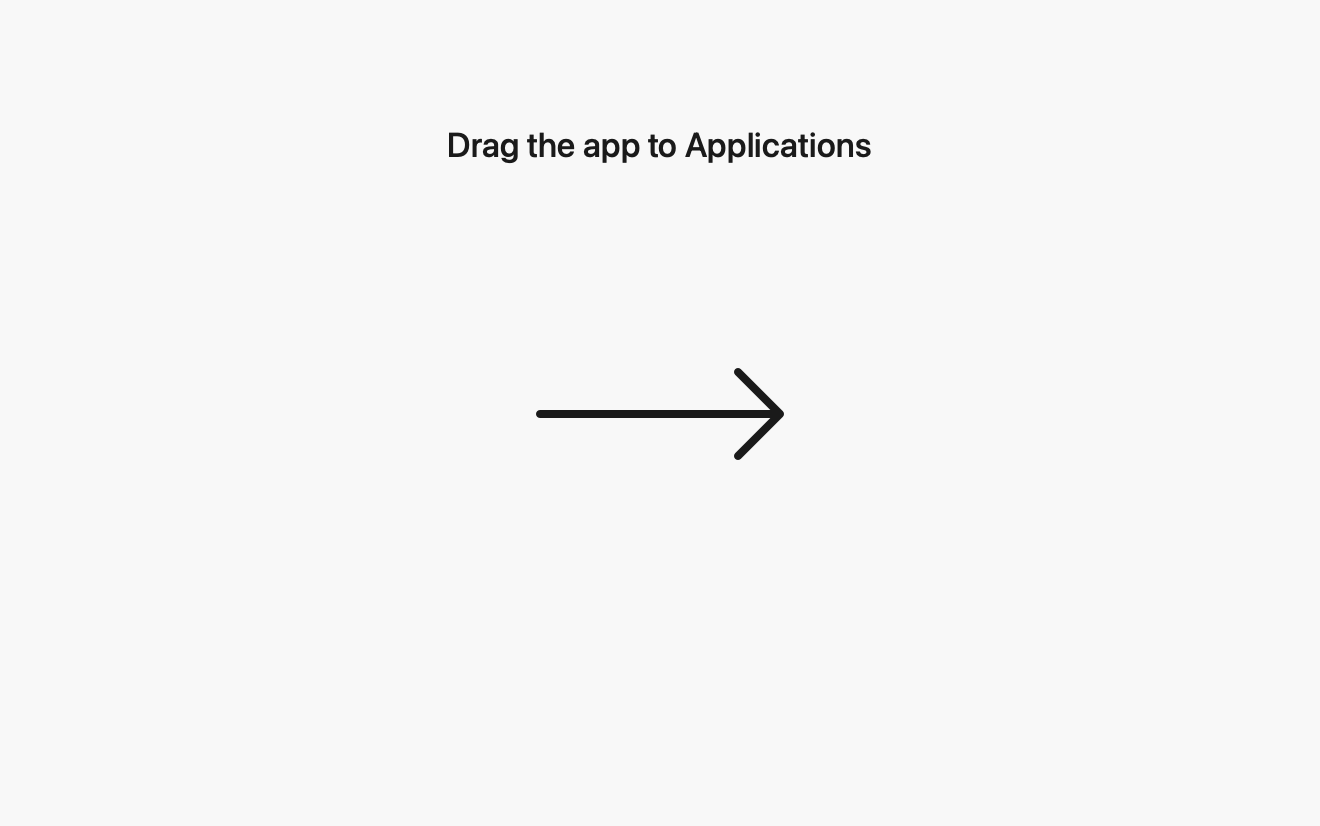
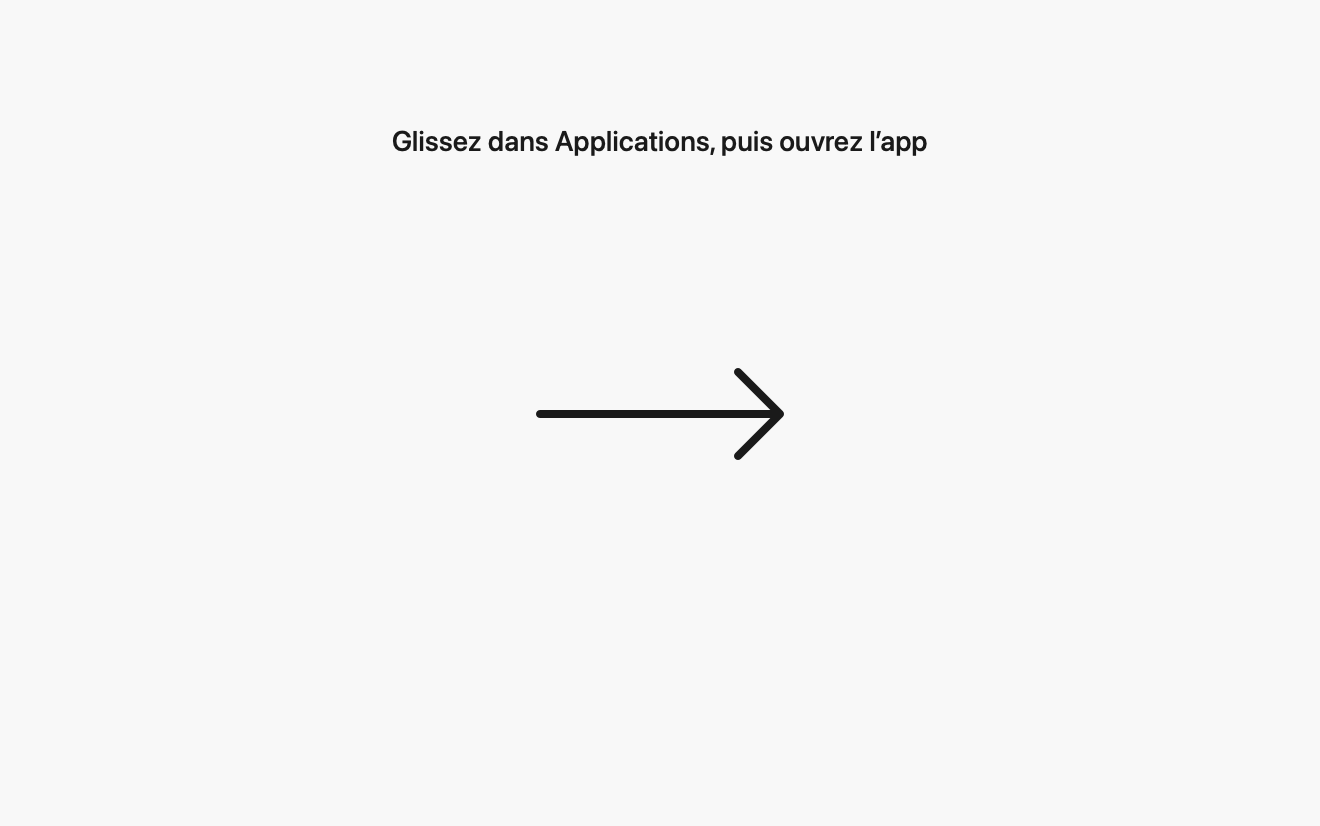
Refine status label and release 0.4.3

Changed region(s): [[0.2795, 0.1513, 0.7144, 0.2119]]

diff --git a/Sources/EthernetMenuBar/AppDelegate.swift b/Sources/EthernetMenuBar/AppDelegate.swift
@@ -76,10 +76,12 @@ final class AppDelegate: NSObject, NSApplicationDelegate {
         // Let macOS choose black or white for the current menu-bar appearance.
         // A forced white tint becomes invisible on a light menu bar.
         item.button?.contentTintColor = connection == nil ? .secondaryLabelColor : nil
-        item.button?.title = settings.showsSpeed ? speedLabel : ""
-        item.button?.font = NSFont.monospacedDigitSystemFont(ofSize: 10, weight: .semibold)
+        // A thin space keeps the speed legible without making the status item
+        // noticeably wider. The lighter 9 pt label leaves the icon dominant.
+        item.button?.title = settings.showsSpeed ? "\u{2009}\(speedLabel)" : ""
+        item.button?.font = NSFont.monospacedDigitSystemFont(ofSize: 9, weight: .medium)
         item.button?.imagePosition = settings.showsSpeed ? .imageLeading : .imageOnly
-        item.button?.imageHugsTitle = true
+        item.button?.imageHugsTitle = false
         item.button?.toolTip = connection.map { "Ethernet \($0.speedLabel) — \($0.interfaceName)" } ?? "Ethernet déconnecté — affichage permanent"
         item.length = compactLength(for: item.button)
         rebuildMenu(for: item, connection: connection)

diff --git a/scripts/create-dmg-background.swift b/scripts/create-dmg-background.swift
@@ -31,11 +31,11 @@ defer { NSGraphicsContext.restoreGraphicsState() }
 NSColor(calibratedWhite: 0.965, alpha: 1).setFill()
 NSBezierPath(rect: NSRect(origin: .zero, size: pixelSize)).fill()
 
-let heading = "Drag the app to Applications" as NSString
+let heading = "Glissez dans Applications, puis ouvrez l’app" as NSString
 let headingStyle = NSMutableParagraphStyle()
 headingStyle.alignment = .center
 let headingAttributes: [NSAttributedString.Key: Any] = [
-    .font: NSFont.systemFont(ofSize: 34, weight: .medium),
+    .font: NSFont.systemFont(ofSize: 28, weight: .medium),
     .foregroundColor: NSColor(calibratedWhite: 0.08, alpha: 1),
     .paragraphStyle: headingStyle
 ]
